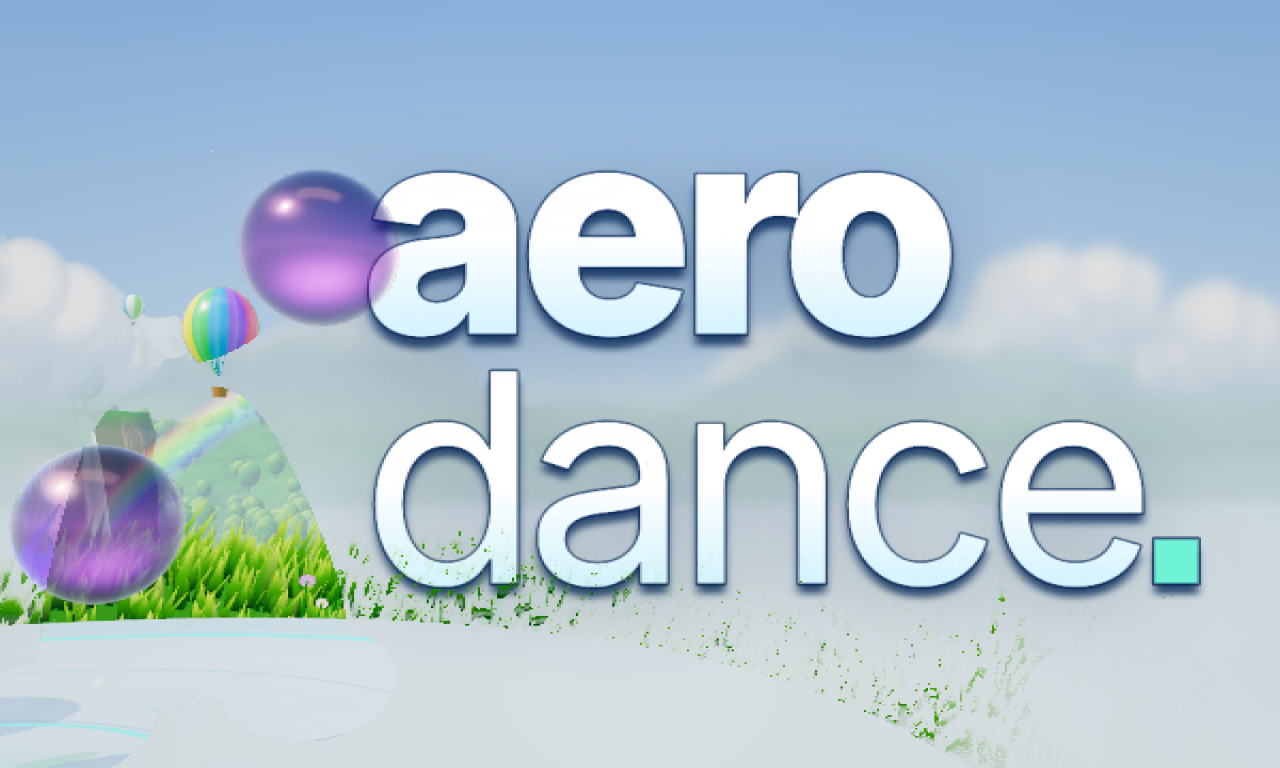
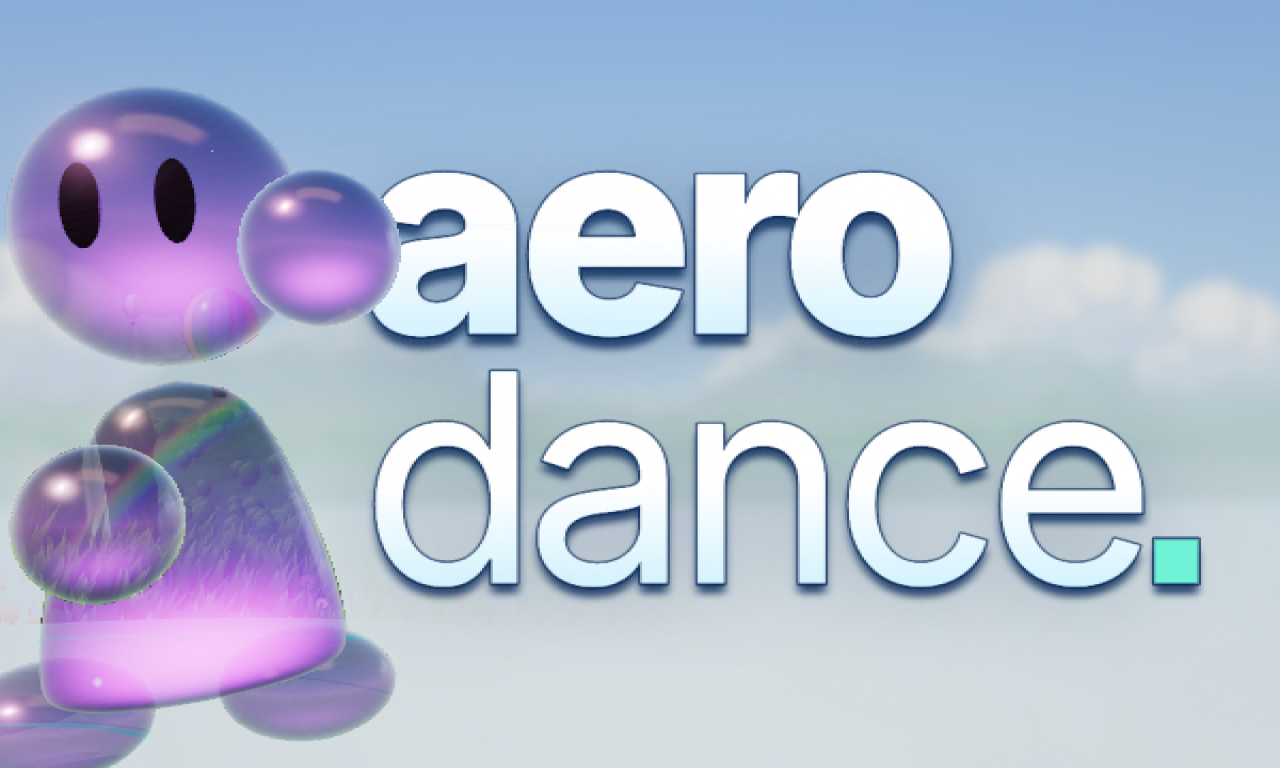
fix(thumbnails): cut a layer of part of the dancers against the scene without them
A layer that holds only the dancers' hands was compared with the layer behind it, their
bodies, so it kept every pixel where the bodies are too, filled with what's behind them.
In falls-sky-soft that hid the dancer behind sky. Compare it with the scene without the
dancers instead, and measure its bloom against that too.

Re-render falls-sky-soft. The -glass icon on the Apple TV draws its see-through layers
another way and was never affected.

diff --git a/tools/thumbnails/client/src/App.tsx b/tools/thumbnails/client/src/App.tsx
@@ -325,7 +325,10 @@ function renderLayers(gl: THREE.WebGLRenderer, scene: THREE.Scene, camera: THREE
       return;
     }
     if (below && behindColor) {
-      const behind = { near: below.near ?? near, far, dancers: !!below.dancers, bloom: false };
+      // Part of the dancers doesn't show the other part, which the layer behind may hold, so it's
+      // cut against the scene without them instead.
+      const behind = pass.parts ? { ...pass, dancers: false, parts: undefined } : { near: below.near ?? near, far, dancers: !!below.dancers, bloom: false };
+      const under = pass.parts ? draw({ ...behind, bloom: true }) : behindColor;
       const sliced = pass.near < behind.near;
       const [a, b] = sliced
         ? [draw({ ...pass, far: behind.near }), draw({ ...pass, far: pass.near * 1.0001 })]
@@ -335,7 +338,7 @@ function renderLayers(gl: THREE.WebGLRenderer, scene: THREE.Scene, camera: THREE
         // Bloom from this layer spilling onto the one behind (the dancers' glints): keep it as
         // the least alpha that composites over the layer behind back to this colour. Only at
         // the same depth, where the renders differ by nothing else.
-        if (!sliced && !rgba[i + 3] && differ(color, behindColor, i)) unblend(rgba, behindColor, i);
+        if (!sliced && !rgba[i + 3] && differ(color, under, i)) unblend(rgba, under, i);
       }
     }
     out.push({ name: layer.name, rgba });
